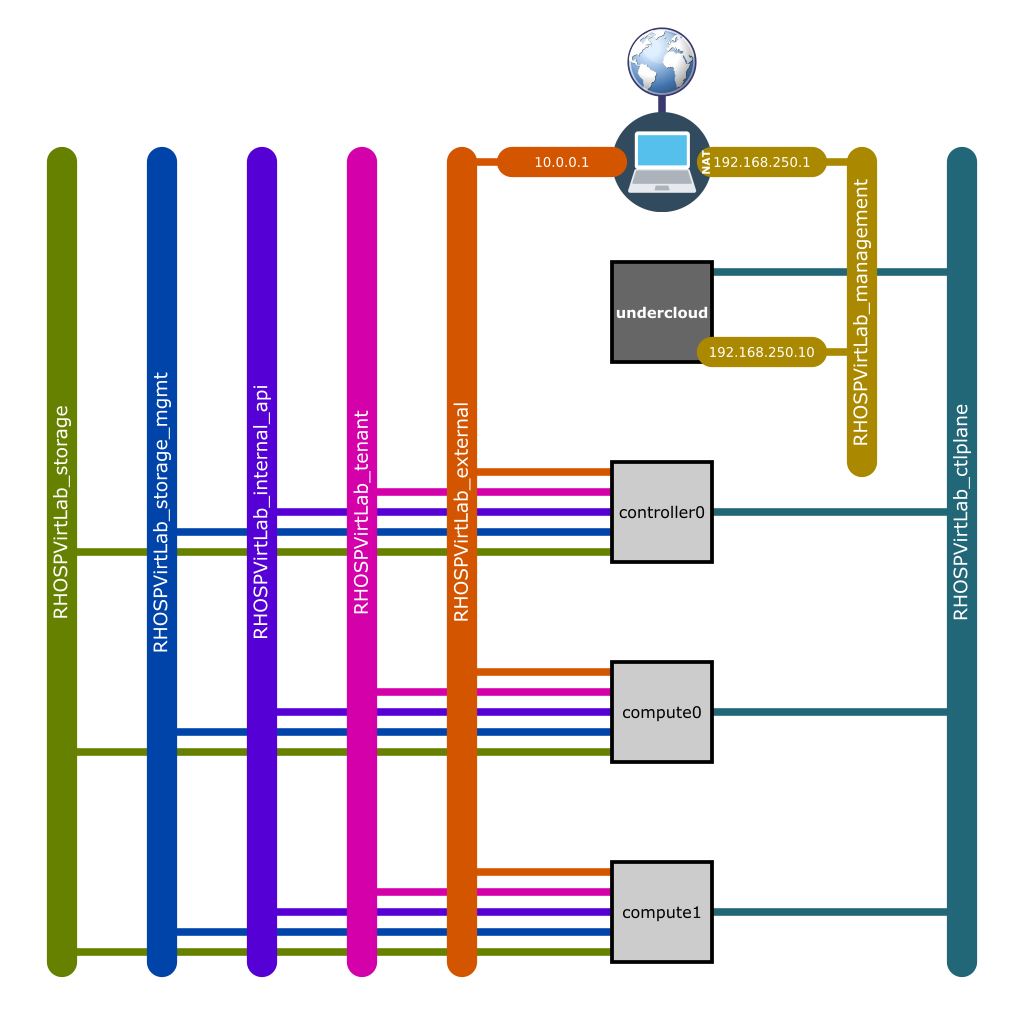
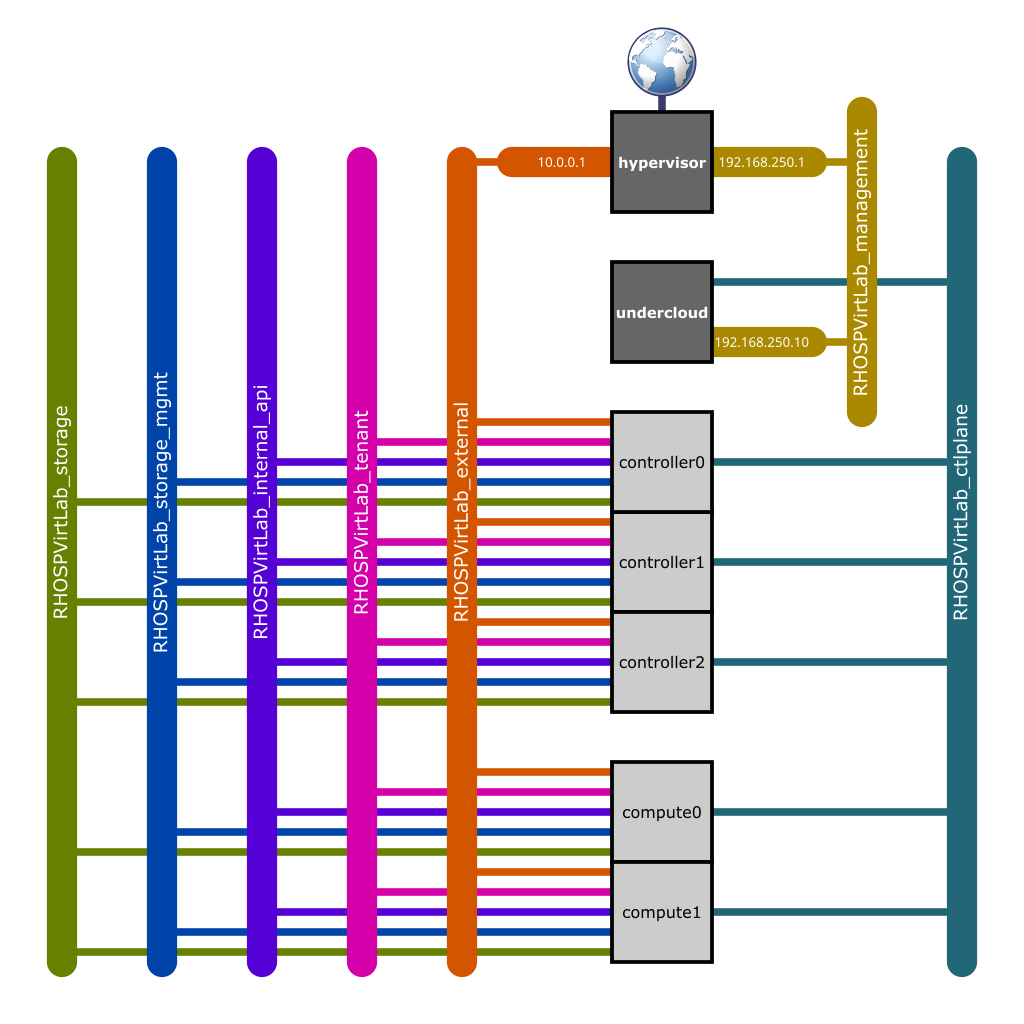
Add rhel-cloud-init.iso as temlate in the RHOSP-virt-infra role. Delete storage folder. Add pool_location variable to store the new location for the RHOSPVirtLab_storage pool: /var/lib/libvirt/images/RHOSPVirtLab_storage. Adapt everything for that change. Correct path to the vbmc command. Avoid the 

diff --git a/README.md b/README.md
@@ -51,6 +51,8 @@ Clone the repository and enter the directory.
 ```bash
 git clone https://github.com/yampilop/RHOSPVirtLab.git
 cd RHOSPVirtLab
+git fetch
+git switch rhel-hypervisor
 ```
 
 ## Initial configurations
@@ -69,18 +71,6 @@ hypervisor | SUCCESS => {
     "changed": false,
     "ping": "pong"
 }
-```
-
-### Download the RHEL8.4 QCOW2 image and custom ISO
-
-The storage from `undercloud` node will be created based on the **Red Hat Enterprise Linux 8.4 Update KVM Guest Image** ([rhel-8.4-x86_64-kvm.qcow2](https://access.redhat.com/downloads/content/479/ver=/rhel---8/8.4/x86_64/product-software)):
-
-![QCOW2 image](images/rhel-8.4-x86_64-kvm.png)
-
-Right click the "Download now" button and copy the link. Then download it and place it in storage folder:
-
-```bash
-wget "<COPIED_LINK>" -O storage/rhel-8.4-x86_64-kvm.qcow2
 ```
 
 ### Install requirements
@@ -119,6 +109,7 @@ ansible-playbook --ask-vault-pass playbook.yml
 
 The playbook sets up the following environment:
 
+// TODO UPDATE
 ![Overview](images/overview.png)
 
 ![Network diagram](images/network_diagram.png)
